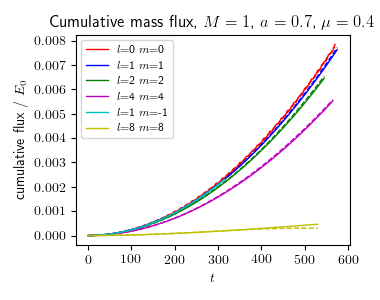
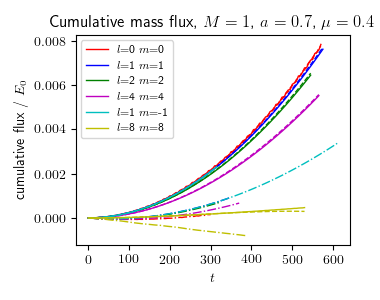
new plot

diff --git a/Analysis/scripts/plot_mass_flux.py b/Analysis/scripts/plot_mass_flux.py
@@ -132,7 +132,7 @@ R_min = 5
 R_max = 500
 average_time = False
 av_n = 1
-plot_mass=False
+plot_mass=True
 cumulative=True
 
 def load_flux_data():
@@ -209,7 +209,7 @@ def plot_graph():
 			mass_line_data = mass_data[dd.num]
 			delta_mass = mass_line_data[1:,1] - mass_line_data[0,1]
 			tmass = mass_line_data[1:,0]
-			ax1.plot(tmass,delta_mass/E0,colours[i]+"-", label="change in mass {:.1f}$<R<${:.1f} ".format(r_min,r_max)+label_)
+			ax1.plot(tmass,delta_mass/E0,colours[i]+"-.", label="_change in mass {:.1f}$<R<${:.1f} ".format(r_min,r_max)+label_, linewidth=1)
 		i = i + 1
 	ax1.set_xlabel("$t$")
 	if cumulative:
